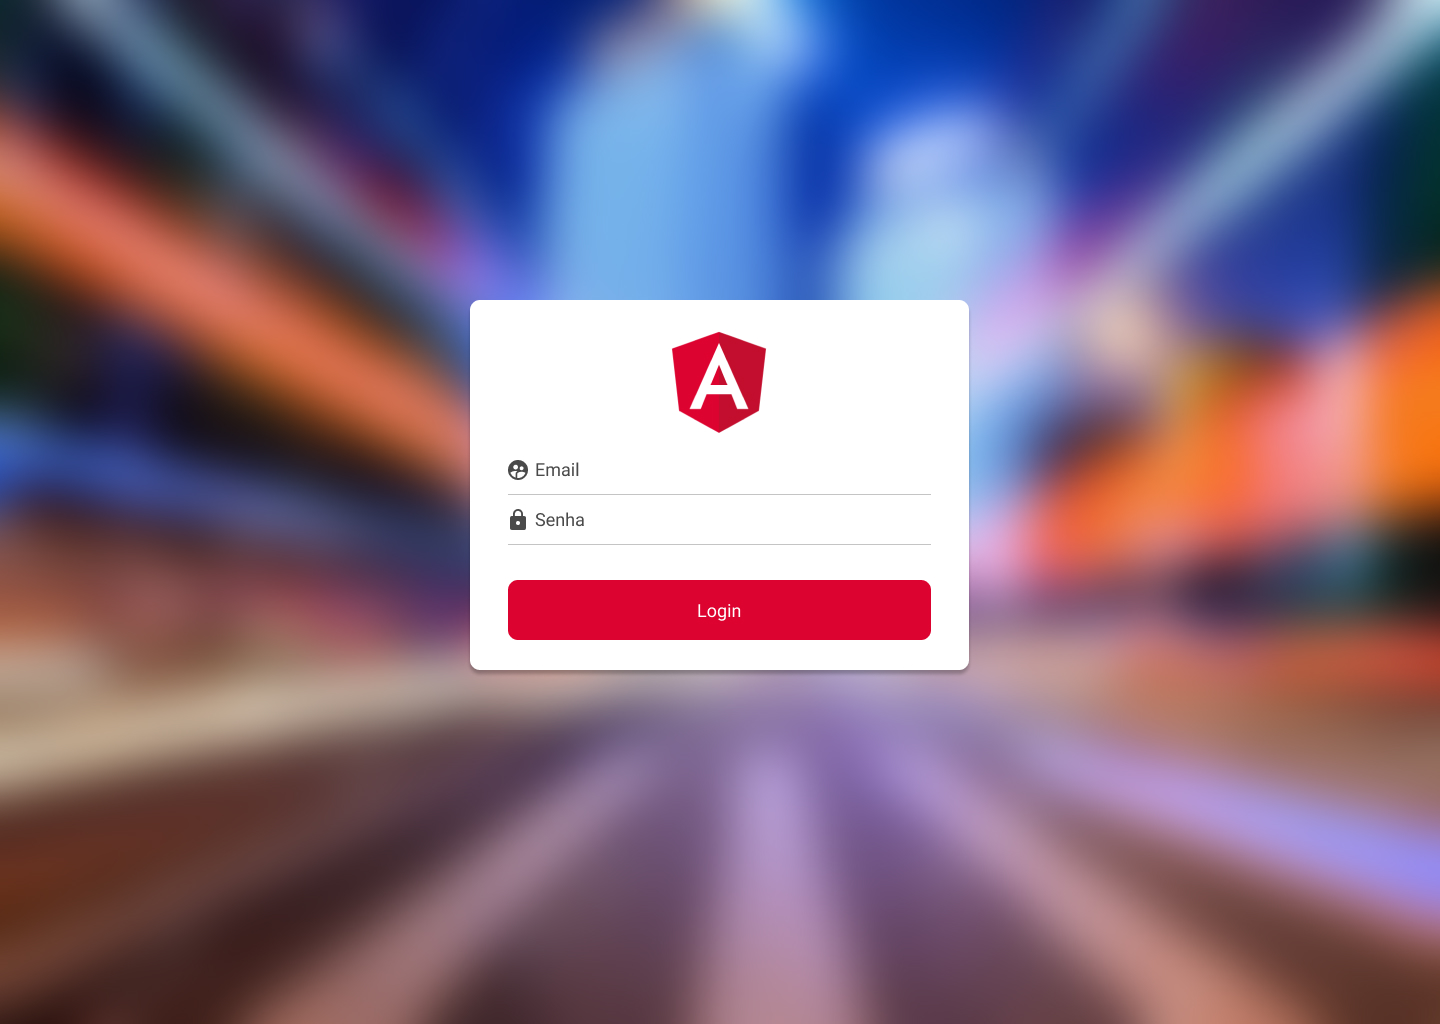
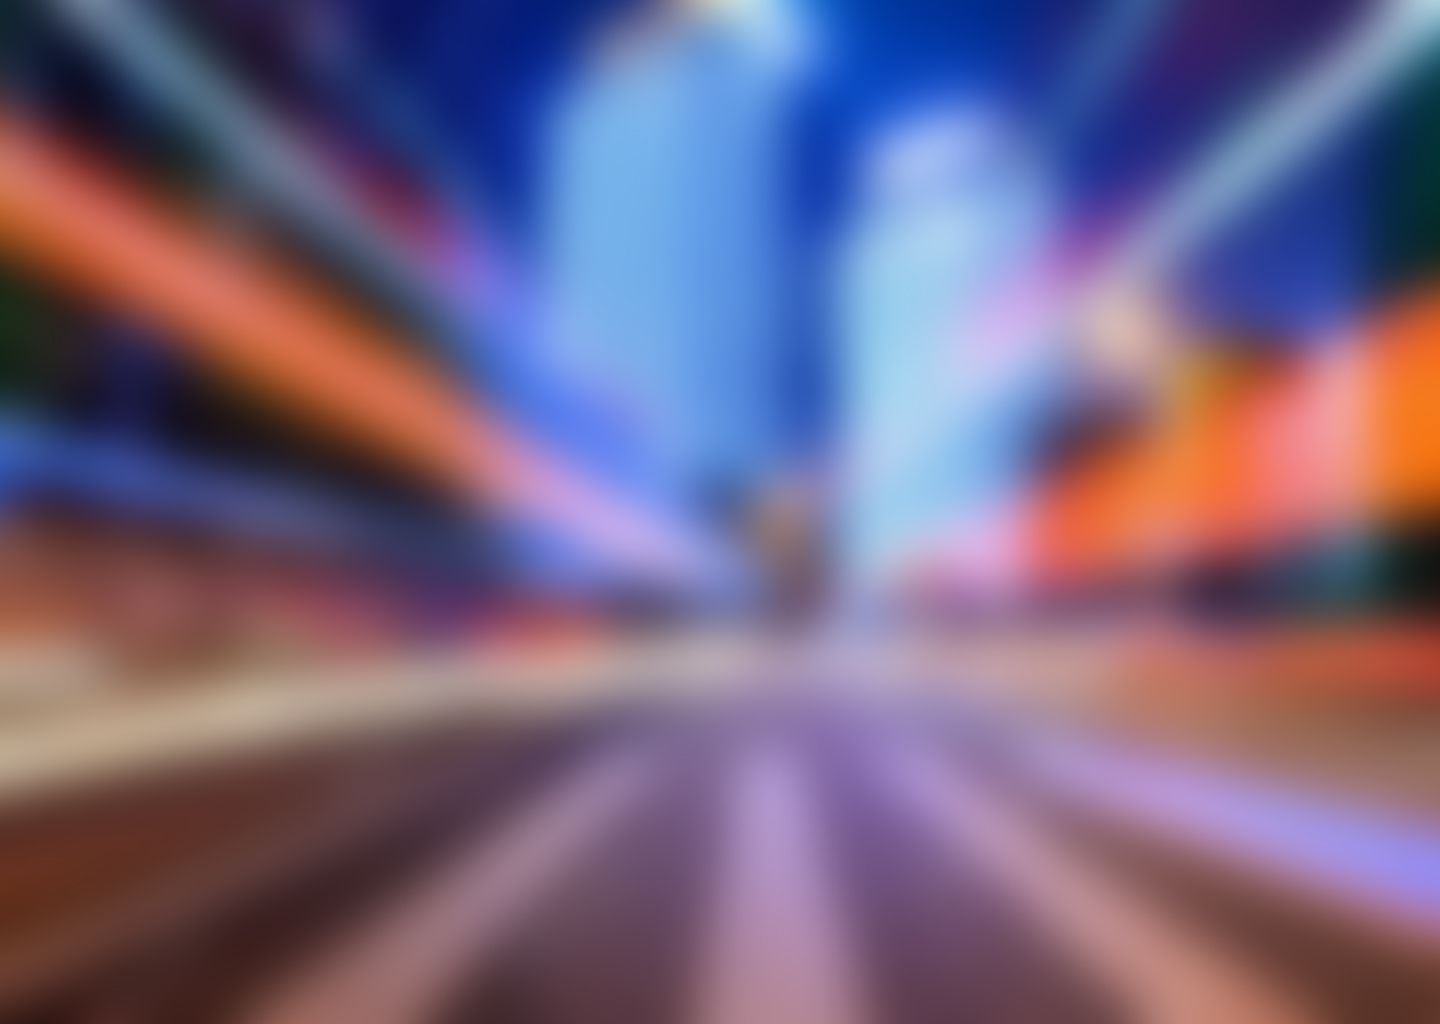
1) - Importando fontes do Google_Api para aplicação, 2) - Configurando altura e largura da Caixa de login, 3) - Configuração do background, 4) - Configuração de centralização dos componentes com scss, 5) - Resgitro do arquivo _base.scss no arquivo Executável do style.scss, 6) - Ajustes na estruturas

Changed region(s): [[0.3125, 0.2812, 0.6875, 0.6562]]

diff --git a/CursoAuthenticationJWT/authentication-front/src/scss/base/_base.scss b/CursoAuthenticationJWT/authentication-front/src/scss/base/_base.scss
@@ -1,0 +1,23 @@
+// importando as fonts roboto
+@import url('https://fonts.googleapis.com/css2?family=Roboto:100,300,400,700&display=swap');
+
+// Fazendo reset
+*{
+    margin: 0;
+    padding: 0;
+    outline: none;
+    font-family: "Roboto", sans-serif;
+    font-style: normal;
+    font-weight: 400;    
+}
+
+body{
+    height: 100vh;
+    background: url("~/src/assets/FundoParaAularJWT.jpg") no-repeat center center fixed;
+    background-size: cover;
+
+    display: flex;
+    justify-content: center;
+    align-items: center;
+
+}

diff --git a/CursoAuthenticationJWT/authentication-front/src/scss/layout/_container.scss b/CursoAuthenticationJWT/authentication-front/src/scss/layout/_container.scss
@@ -1,0 +1,16 @@
+.container{
+  width: 500px;
+  min-height: 370px;
+
+  padding: 25px 40px;
+  background: $branco;
+  box-shadow: 0px 4px 4px rgba(0, 0, 0, 0.25);
+  box-sizing: border-box;
+  border-radius: 10px;
+
+  display: flex;
+  flex-direction: column;
+  justify-content: center;
+  align-items: center;
+
+}

diff --git a/CursoAuthenticationJWT/authentication-front/src/app/app.component.ts b/CursoAuthenticationJWT/authentication-front/src/app/app.component.ts
@@ -4,7 +4,7 @@ import { Component } from '@angular/core';
   selector: 'app-root',
   template: `
     <div class="container">
-      <a [routerLink]="['admin']">Admin</a>
+      <!-- <a [routerLink]="['admin']">Admin</a> -->
       <router-outlet></router-outlet>
     </div>
   `,

diff --git a/CursoAuthenticationJWT/authentication-front/src/styles.scss b/CursoAuthenticationJWT/authentication-front/src/styles.scss
@@ -1,1 +1,3 @@
 /* You can add global styles to this file, and also import other style files */
+
+@import "./scss/";

diff --git a/CursoAuthenticationJWT/authentication-front/src/scss/base/index.scss b/CursoAuthenticationJWT/authentication-front/src/scss/base/index.scss
@@ -1,0 +1,3 @@
+@import "./variables";
+@import "./base";
+

diff --git a/CursoAuthenticationJWT/authentication-front/src/scss/index.scss b/CursoAuthenticationJWT/authentication-front/src/scss/index.scss
@@ -1,0 +1,3 @@
+@import "./base/";
+@import "./layout/";
+

diff --git a/CursoAuthenticationJWT/authentication-front/src/app/core/components/auth/pages/sign/sign.component.html b/CursoAuthenticationJWT/authentication-front/src/app/core/components/auth/pages/sign/sign.component.html
@@ -1,1 +1,3 @@
+
+
 <p>sign works!</p>

diff --git a/CursoAuthenticationJWT/authentication-front/src/scss/layout/index.scss b/CursoAuthenticationJWT/authentication-front/src/scss/layout/index.scss
@@ -1,0 +1,1 @@
+@import "./container";
